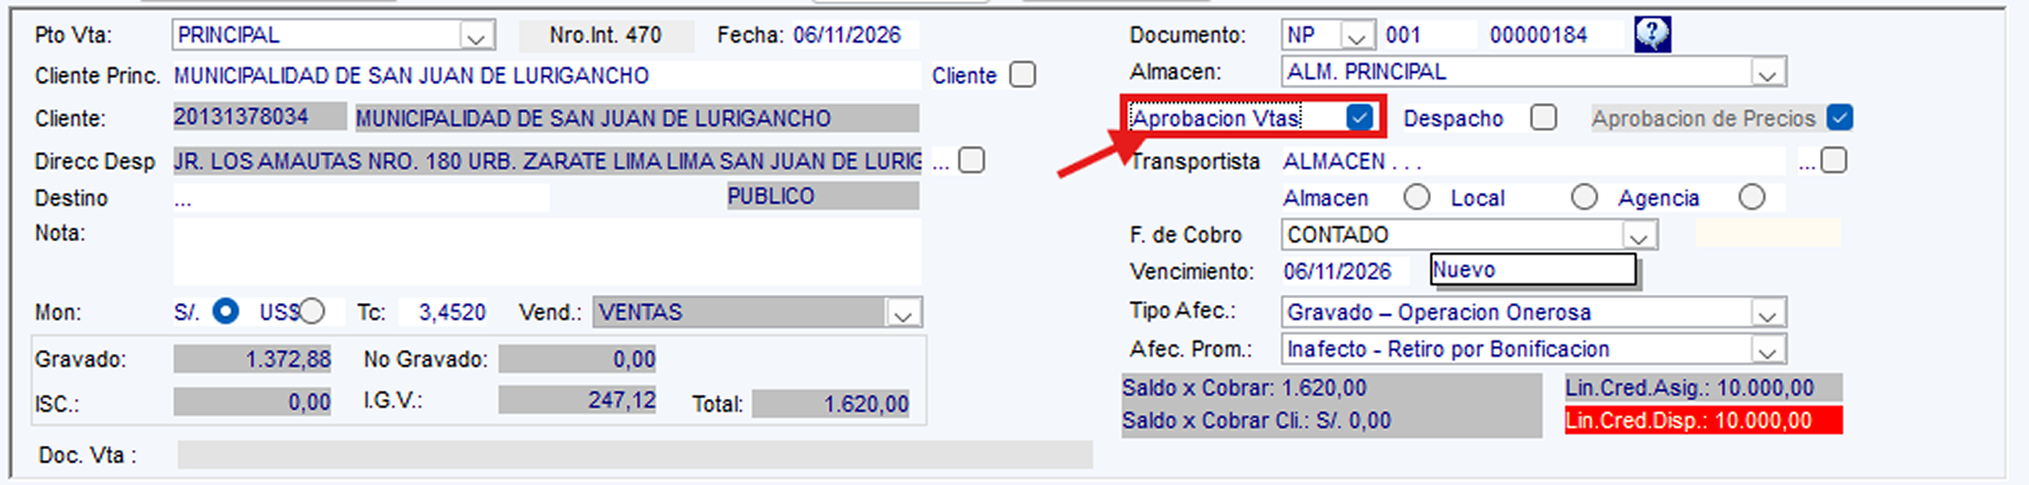
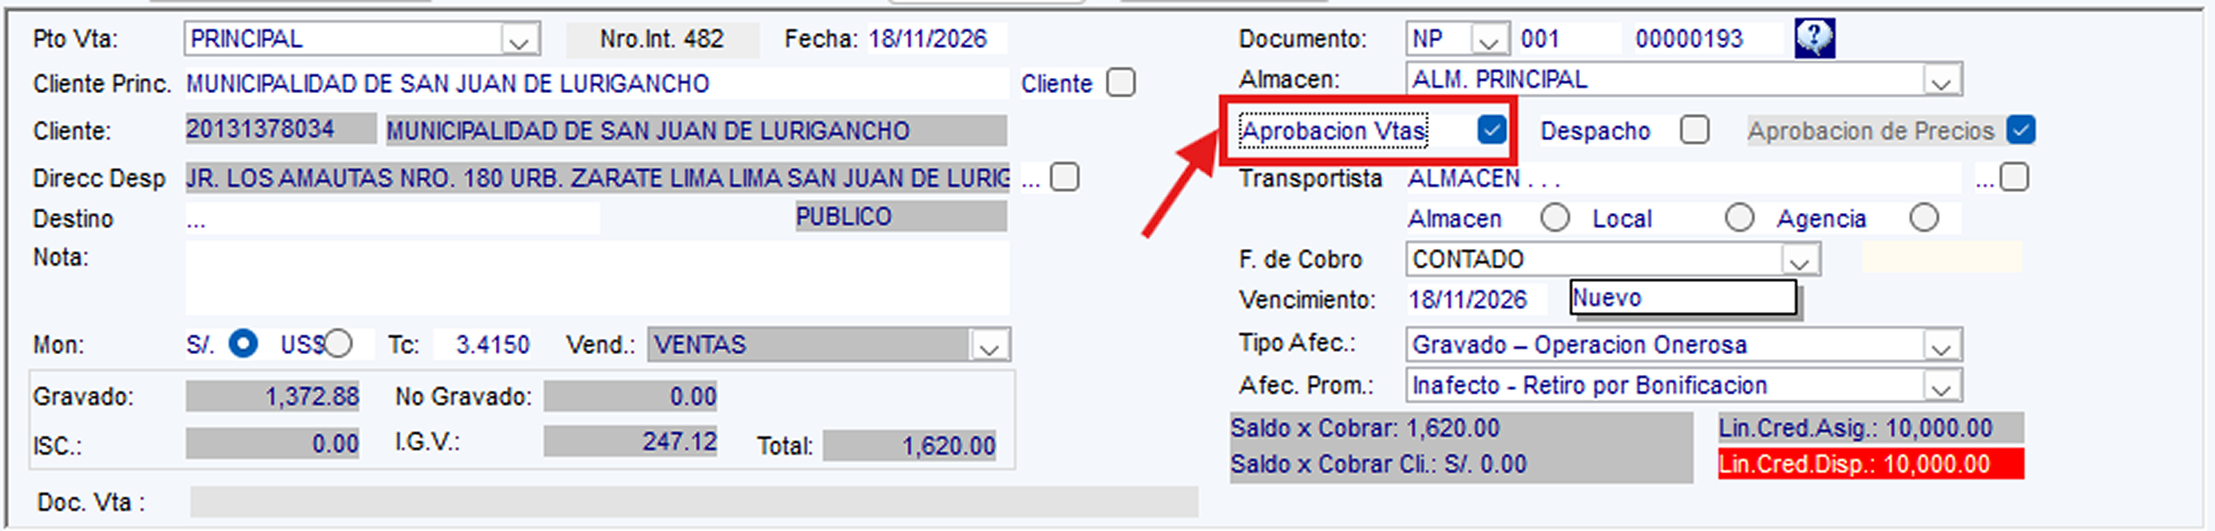
Se actualizo el 8.1.1 y 8.1.2

diff --git a/GENERALIDADES/8.1.1_Estados_Ciclo_de_vida.html b/GENERALIDADES/8.1.1_Estados_Ciclo_de_vida.html
@@ -490,11 +490,14 @@
               <p>
                 Al formular una Nota de Pedido por primera vez, selecciona el cliente y añade los artículos requeridos. Al pulsar la <strong>Opción Grabar</strong> sin marcar casillas de aprobación, el pedido se guarda en estado inicial.
               </p>
+              <div class="img-placeholder">
+                <img src="../Imagenes/Modulo_Ventas/8.1.1_estados/image 1261.png" alt="Estado Nuevo de la Nota de Pedido en búsqueda de documentos" style="width: 100%; max-width: 650px; height: auto; display: block; margin: 0 auto; border-radius: 6px; border: 1px solid #E2E8F0;">
+              </div>
               <p>
                 Para comprobarlo, pulsa el botón de ayuda <strong>[?]</strong> junto al correlativo; verás el pedido registrado con el estado <strong>NUEVO,</strong> cabe recalcar que solo se esta grabando una NP mas no se está comprometiendo ningún artículo ya que no esta aprobado por ventas, eso lo veremos mas adelante.
               </p>
               <div class="img-placeholder">
-                <img src="../Imagenes/Modulo_Ventas/8.1.1_estados/image 1122.png" alt="Estado Nuevo de la Nota de Pedido en búsqueda de documentos" style="width: 100%; max-width: 650px; height: auto; display: block; margin: 0 auto; border-radius: 6px; border: 1px solid #E2E8F0;">
+                <img src="../Imagenes/Modulo_Ventas/8.1.1_estados/image 1262.png" alt="Estado Nuevo de la Nota de Pedido en búsqueda de documentos" style="width: 100%; max-width: 650px; height: auto; display: block; margin: 0 auto; border-radius: 6px; border: 1px solid #E2E8F0;">
               </div>
             </div>
 
@@ -508,19 +511,19 @@
                 Pulsa el botón de ayuda <strong>[?]</strong>, ubica el documento en la lista y selecciónalo para editar:
               </p>
               <div class="img-placeholder">
-                <img src="../Imagenes/Modulo_Ventas/8.1.1_estados/image 1123.png" alt="Selección de NP para edición en la lista de búsqueda" style="width: 100%; max-width: 650px; height: auto; display: block; margin: 0 auto; border-radius: 6px; border: 1px solid #E2E8F0;">
+                <img src="../Imagenes/Modulo_Ventas/8.1.1_estados/image 1263.png" alt="Selección de NP para edición en la lista de búsqueda" style="width: 100%; max-width: 650px; height: auto; display: block; margin: 0 auto; border-radius: 6px; border: 1px solid #E2E8F0;">
               </div>
               <p>
                 Haz doble clic sobre el documento para abrirlo en pantalla; aquí podrás agregar artículos, cambiar de asesor comercial, etc. Una vez realizadas las modificaciones, pulsa la <strong>Opción Grabar</strong>:
               </p>
               <div class="img-placeholder">
-                <img src="../Imagenes/Modulo_Ventas/8.1.1_estados/image 1124.png" alt="Edición de repuestos y asignación de asesor comercial en el formulario" style="width: 100%; max-width: 650px; height: auto; display: block; margin: 0 auto; border-radius: 6px; border: 1px solid #E2E8F0;">
+                <img src="../Imagenes/Modulo_Ventas/8.1.1_estados/image 1264.png" alt="Edición de repuestos y asignación de asesor comercial en el formulario" style="width: 100%; max-width: 650px; height: auto; display: block; margin: 0 auto; border-radius: 6px; border: 1px solid #E2E8F0;">
               </div>
               <p>
                 Al volver a buscar el documento con el botón de ayuda <strong>[?]</strong>, verás que su estado cambió formalmente a <strong>Modificado</strong>:
               </p>
               <div class="img-placeholder">
-                <img src="../Imagenes/Modulo_Ventas/8.1.1_estados/image 1125 (3).png" alt="Estado Modificado visualizado en la grilla de búsqueda" style="width: 100%; max-width: 650px; height: auto; display: block; margin: 0 auto; border-radius: 6px; border: 1px solid #E2E8F0;">
+                <img src="../Imagenes/Modulo_Ventas/8.1.1_estados/image 1265.png" alt="Estado Modificado visualizado en la grilla de búsqueda" style="width: 100%; max-width: 650px; height: auto; display: block; margin: 0 auto; border-radius: 6px; border: 1px solid #E2E8F0;">
               </div>
             </div>
 
@@ -536,7 +539,7 @@
 
                 <!-- IMAGEN 1: MENÚ EVENTOS > 1. ABRIR PEDIDO Y DIÁLOGO DE CONFIRMACIÓN -->
                 <div class="img-placeholder">
-                  <img src="../Imagenes/Modulo_Ventas/8.1.1_estados/image 1125 (4).png" alt="Opción 1. Abrir Pedido en el menú Eventos y mensaje de confirmación del sistema" style="width: 100%; max-width: 650px; height: auto; display: block; margin: 0 auto; border-radius: 6px; border: 1px solid #E2E8F0;">
+                  <img src="../Imagenes/Modulo_Ventas/8.1.1_estados/image 1269.png" alt="Opción 1. Abrir Pedido en el menú Eventos y mensaje de confirmación del sistema" style="width: 100%; max-width: 650px; height: auto; display: block; margin: 0 auto; border-radius: 6px; border: 1px solid #E2E8F0;">
                 </div>
 
                 <p>
@@ -548,7 +551,7 @@
 
                 <!-- IMAGEN 2: VERIFICACIÓN DEL ESTADO ABIER EN LA BÚSQUEDA DE DOCUMENTOS -->
                 <div class="img-placeholder">
-                  <img src="../Imagenes/Modulo_Ventas/8.1.1_estados/image 1126 (2).png" alt="Comprobación del estado Abier en la ventana de búsqueda de documentos mediante el botón ayuda" style="width: 100%; max-width: 650px; height: auto; display: block; margin: 0 auto; border-radius: 6px; border: 1px solid #E2E8F0;">
+                  <img src="../Imagenes/Modulo_Ventas/8.1.1_estados/image 1270.png" alt="Comprobación del estado Abier en la ventana de búsqueda de documentos mediante el botón ayuda" style="width: 100%; max-width: 650px; height: auto; display: block; margin: 0 auto; border-radius: 6px; border: 1px solid #E2E8F0;">
                 </div>
 
                 <p>
@@ -557,7 +560,7 @@
 
                 <!-- IMAGEN 3: GRILLA CON REPUESTOS RETIRADOS Y ACCIÓN GRABAR -->
                 <div class="img-placeholder">
-                  <img src="../Imagenes/Modulo_Ventas/8.1.1_estados/image 1126 (3).png" alt="Nota de Pedido con repuestos actualizados lista para presionar la opción Grabar" style="width: 100%; max-width: 650px; height: auto; display: block; margin: 0 auto; border-radius: 6px; border: 1px solid #E2E8F0;">
+                  <img src="../Imagenes/Modulo_Ventas/8.1.1_estados/image 1271.png" alt="Nota de Pedido con repuestos actualizados lista para presionar la opción Grabar" style="width: 100%; max-width: 650px; height: auto; display: block; margin: 0 auto; border-radius: 6px; border: 1px solid #E2E8F0;">
                 </div>
 
                 <p>
@@ -566,16 +569,7 @@
 
                 <!-- IMAGEN 4: PEDIDO ACTUALIZADO AL ESTADO MODIF EN LA BÚSQUEDA -->
                 <div class="img-placeholder">
-                  <img src="../Imagenes/Modulo_Ventas/8.1.1_estados/image 1126 (4).png" alt="Confirmación del retorno al estado Modif en la lista de documentos" style="width: 100%; max-width: 650px; height: auto; display: block; margin: 0 auto; border-radius: 6px; border: 1px solid #E2E8F0;">
-                </div>
-
-                <p>
-                  Por último, al hacer clic en la <strong>Opción Histórico</strong> en la barra inferior, se abrirá la ventana de trazabilidad donde podrás auditar todo el historial y observar la secuencia exacta de estados por los que transitó la Nota de Pedido (incluyendo el registro del evento <strong>ABRIR</strong> con su fecha, hora y usuario responsable).
-                </p>
-
-                <!-- IMAGEN 5: VENTANA DE HISTÓRICO CON EL REGISTRO DE APERTURA -->
-                <div class="img-placeholder">
-                  <img src="../Imagenes/Modulo_Ventas/8.1.1_estados/image 1126 (6).png" alt="Ventana de Histórico mostrando la trazabilidad cronológica y el evento ABRIR registrado" style="width: 100%; max-width: 650px; height: auto; display: block; margin: 0 auto; border-radius: 6px; border: 1px solid #E2E8F0;">
+                  <img src="../Imagenes/Modulo_Ventas/8.1.1_estados/image 1272.png" alt="Confirmación del retorno al estado Modif en la lista de documentos" style="width: 100%; max-width: 650px; height: auto; display: block; margin: 0 auto; border-radius: 6px; border: 1px solid #E2E8F0;">
                 </div>
               </div>
 
@@ -586,19 +580,19 @@
                 Este paso es fundamental: al marcar la casilla <strong>Aprobación Vtas.</strong> en la cabecera y pulsar la <strong>Opción Grabar</strong>, los artículos quedan formalmente comprometidos en almacén. Nadie más podrá vender esas unidades.
               </p>
               <div class="img-placeholder">
-                <img src="../Imagenes/Modulo_Ventas/8.1.1_estados/image 1126.png" alt="Marcado de la casilla Aprobación Vtas en la cabecera de la Nota de Pedido" style="width: 100%; max-width: 650px; height: auto; display: block; margin: 0 auto; border-radius: 6px; border: 1px solid #E2E8F0;">
+                <img src="../Imagenes/Modulo_Ventas/8.1.1_estados/image 1266.png" alt="Marcado de la casilla Aprobación Vtas en la cabecera de la Nota de Pedido" style="width: 100%; max-width: 650px; height: auto; display: block; margin: 0 auto; border-radius: 6px; border: 1px solid #E2E8F0;">
               </div>
               <p>
                 Una vez grabado, el documento pasará formalmente al estado <strong>Aprobado Ventas</strong> (mostrado como <code>Apr.Vta</code>):
               </p>
               <div class="img-placeholder">
-                <img src="../Imagenes/Modulo_Ventas/8.1.1_estados/image 1127.png" alt="Validación del estado Apr.Vta en la grilla de búsqueda de documentos" style="width: 100%; max-width: 650px; height: auto; display: block; margin: 0 auto; border-radius: 6px; border: 1px solid #E2E8F0;">
+                <img src="../Imagenes/Modulo_Ventas/8.1.1_estados/image 1267.png" alt="Validación del estado Apr.Vta en la grilla de búsqueda de documentos" style="width: 100%; max-width: 650px; height: auto; display: block; margin: 0 auto; border-radius: 6px; border: 1px solid #E2E8F0;">
               </div>
               <p>
                 Cuando el pedido está aprobado por ventas, los campos de precio y cantidad quedan bloqueados por seguridad. Se habilitan los pasos siguientes como Despacho o Cobranzas, y el botón <strong>Histórico</strong> muestra el registro del visto bueno comercial:
               </p>
               <div class="img-placeholder">
-                <img src="../Imagenes/Modulo_Ventas/8.1.1_estados/image 1128.png" alt="Histórico de auditoría reflejando el visto bueno de Aprobación por Ventas" style="width: 100%; max-width: 650px; height: auto; display: block; margin: 0 auto; border-radius: 6px; border: 1px solid #E2E8F0;">
+                <img src="../Imagenes/Modulo_Ventas/8.1.1_estados/image 1268.png" alt="Histórico de auditoría reflejando el visto bueno de Aprobación por Ventas" style="width: 100%; max-width: 650px; height: auto; display: block; margin: 0 auto; border-radius: 6px; border: 1px solid #E2E8F0;">
               </div>
             </div>
 
@@ -614,7 +608,7 @@
 
                 <!-- IMAGEN 1: SELECCIÓN DE 3. LIQUIDAR PEDIDO EN EL MENÚ EVENTOS -->
                 <div class="img-placeholder">
-                  <img src="../Imagenes/Modulo_Ventas/8.1.1_estados/image 1134.png" alt="Acceso a la opción 3. Liquidar Pedido desde el menú desplegable Eventos" style="width: 100%; max-width: 650px; height: auto; display: block; margin: 0 auto; border-radius: 6px; border: 1px solid #E2E8F0;">
+                  <img src="../Imagenes/Modulo_Ventas/8.1.1_estados/image 1273.png" alt="Acceso a la opción 3. Liquidar Pedido desde el menú desplegable Eventos" style="width: 100%; max-width: 650px; height: auto; display: block; margin: 0 auto; border-radius: 6px; border: 1px solid #E2E8F0;">
                 </div>
 
                 <p>
@@ -623,7 +617,7 @@
 
                 <!-- IMAGEN 2: VENTANA LIQUIDACIÓN DE NOTA DE PEDIDO CON PARTIDAS MARCADAS Y BOTÓN GRABAR -->
                 <div class="img-placeholder">
-                  <img src="../Imagenes/Modulo_Ventas/8.1.1_estados/image 1135.png" alt="Ventana Liquidación de Nota de Pedido con repuestos seleccionados en la columna Liquidar" style="width: 100%; max-width: 650px; height: auto; display: block; margin: 0 auto; border-radius: 6px; border: 1px solid #E2E8F0;">
+                  <img src="../Imagenes/Modulo_Ventas/8.1.1_estados/image 1274.png" alt="Ventana Liquidación de Nota de Pedido con repuestos seleccionados en la columna Liquidar" style="width: 100%; max-width: 650px; height: auto; display: block; margin: 0 auto; border-radius: 6px; border: 1px solid #E2E8F0;">
                 </div>
 
                 <p>
@@ -632,7 +626,7 @@
 
                 <!-- IMAGEN 3: MENSAJE DEL SISTEMA CONFIRMANDO LA LIQUIDACIÓN CORRECTA -->
                 <div class="img-placeholder">
-                  <img src="../Imagenes/Modulo_Ventas/8.1.1_estados/image 1136.png" alt="Mensaje del sistema confirmando que el documento se liquidó de forma correcta" style="width: 100%; max-width: 650px; height: auto; display: block; margin: 0 auto; border-radius: 6px; border: 1px solid #E2E8F0;">
+                  <img src="../Imagenes/Modulo_Ventas/8.1.1_estados/image 1275.png" alt="Mensaje del sistema confirmando que el documento se liquidó de forma correcta" style="width: 100%; max-width: 650px; height: auto; display: block; margin: 0 auto; border-radius: 6px; border: 1px solid #E2E8F0;">
                 </div>
 
                 <p>
@@ -641,7 +635,7 @@
 
                 <!-- IMAGEN 4: BÚSQUEDA DE DOCUMENTOS CON EL ESTADO CAMBIADO A LIQU.PARC -->
                 <div class="img-placeholder">
-                  <img src="../Imagenes/Modulo_Ventas/8.1.1_estados/image 1137.png" alt="Consulta de documentos mostrando el estado actualizado a Liqu.Parc" style="width: 100%; max-width: 650px; height: auto; display: block; margin: 0 auto; border-radius: 6px; border: 1px solid #E2E8F0;">
+                  <img src="../Imagenes/Modulo_Ventas/8.1.1_estados/image 1276.png" alt="Consulta de documentos mostrando el estado actualizado a Liqu.Parc" style="width: 100%; max-width: 650px; height: auto; display: block; margin: 0 auto; border-radius: 6px; border: 1px solid #E2E8F0;">
                 </div>
 
                 <p>
@@ -650,7 +644,7 @@
 
                 <!-- IMAGEN 5: VENTANA DE HISTÓRICO REFLEJANDO EL MOVIMIENTO DE LIQUIDACIÓN Y LAS CANTIDADES LIBERADAS -->
                 <div class="img-placeholder">
-                  <img src="../Imagenes/Modulo_Ventas/8.1.1_estados/image 1138.png" alt="Histórico de la Nota de Pedido evidenciando el registro de Liquidación y el retorno de stock" style="width: 100%; max-width: 650px; height: auto; display: block; margin: 0 auto; border-radius: 6px; border: 1px solid #E2E8F0;">
+                  <img src="../Imagenes/Modulo_Ventas/8.1.1_estados/image 1277.png" alt="Histórico de la Nota de Pedido evidenciando el registro de Liquidación y el retorno de stock" style="width: 100%; max-width: 650px; height: auto; display: block; margin: 0 auto; border-radius: 6px; border: 1px solid #E2E8F0;">
                 </div>
               </div>
 
@@ -661,31 +655,31 @@
                 Aplica cuando el cliente decide no comprar ningún artículos de la orden. En lugar de borrar el pedido, se liquida totalmente para liberar el 100% del stock retenido y devolverlo al inventario general.
               </p>
               <div class="img-placeholder">
-                <img src="../Imagenes/Modulo_Ventas/8.1.1_estados/image 1139.png" alt="Nota de Pedido con aprobación de ventas lista para liquidar" style="width: 100%; max-width: 650px; height: auto; display: block; margin: 0 auto; border-radius: 6px; border: 1px solid #E2E8F0;">
+                <img src="../Imagenes/Modulo_Ventas/8.1.1_estados/image 1278.png" alt="Nota de Pedido con aprobación de ventas lista para liquidar" style="width: 100%; max-width: 650px; height: auto; display: block; margin: 0 auto; border-radius: 6px; border: 1px solid #E2E8F0;">
               </div>
               <p>
                 Entra a <strong>Eventos &gt; Liquidar Pedido</strong> y en la parte inferior pulsa el botón <strong>Liquidar</strong> para marcar automáticamente todos los artículos a la vez:
               </p>
               <div class="img-placeholder">
-                <img src="../Imagenes/Modulo_Ventas/8.1.1_estados/image 1140.png" alt="Botón Liquidar en grilla marcando todos los repuestos a la vez" style="width: 100%; max-width: 650px; height: auto; display: block; margin: 0 auto; border-radius: 6px; border: 1px solid #E2E8F0;">
+                <img src="../Imagenes/Modulo_Ventas/8.1.1_estados/image 1279.png" alt="Botón Liquidar en grilla marcando todos los repuestos a la vez" style="width: 100%; max-width: 650px; height: auto; display: block; margin: 0 auto; border-radius: 6px; border: 1px solid #E2E8F0;">
               </div>
               <p>
                 Verifica que todas las filas queden seleccionadas y pulsa la <strong>Opción Grabar</strong>:
               </p>
               <div class="img-placeholder">
-                <img src="../Imagenes/Modulo_Ventas/8.1.1_estados/image 1141.png" alt="Todas las líneas de repuestos seleccionadas para liquidación total" style="width: 100%; max-width: 650px; height: auto; display: block; margin: 0 auto; border-radius: 6px; border: 1px solid #E2E8F0;">
+                <img src="../Imagenes/Modulo_Ventas/8.1.1_estados/image 1280.png" alt="Todas las líneas de repuestos seleccionadas para liquidación total" style="width: 100%; max-width: 650px; height: auto; display: block; margin: 0 auto; border-radius: 6px; border: 1px solid #E2E8F0;">
               </div>
               <p>
                 El sistema te pedirá confirmación; haz clic en <strong>Aceptar</strong>:
               </p>
               <div class="img-placeholder">
-                <img src="../Imagenes/Modulo_Ventas/8.1.1_estados/image 1142.png" alt="Cuadro de diálogo de confirmación para procesar la Liquidación Total" style="width: auto; max-width: 650px; height: auto; display: block; margin: 0 auto; border-radius: 6px; border: 1px solid #E2E8F0;">
+                <img src="../Imagenes/Modulo_Ventas/8.1.1_estados/image 1281.png" alt="Cuadro de diálogo de confirmación para procesar la Liquidación Total" style="width: auto; max-width: 650px; height: auto; display: block; margin: 0 auto; border-radius: 6px; border: 1px solid #E2E8F0;">
               </div>
               <p>
                 Al revisar el <strong>Histórico</strong>, se confirmará la <strong>Liquidación Total</strong> y todas las unidades habrán retornado de inmediato al almacén:
               </p>
               <div class="img-placeholder">
-                <img src="../Imagenes/Modulo_Ventas/8.1.1_estados/image 1143.png" alt="Histórico validando la Liquidación Total y descompromiso de stock" style="width: 100%; max-width: 650px; height: auto; display: block; margin: 0 auto; border-radius: 6px; border: 1px solid #E2E8F0;">
+                <img src="../Imagenes/Modulo_Ventas/8.1.1_estados/image 1282.png" alt="Histórico validando la Liquidación Total y descompromiso de stock" style="width: 100%; max-width: 650px; height: auto; display: block; margin: 0 auto; border-radius: 6px; border: 1px solid #E2E8F0;">
               </div>
             </div>
 
@@ -703,7 +697,7 @@
 
                 <!-- IMAGEN 1: MARCADO DE CASILLA DESPACHO EN CABECERA DE LA NP -->
                 <div class="img-placeholder">
-                  <img src="../Imagenes/Modulo_Ventas/8.1.1_estados/image 1144.png" alt="Aprobación directa desde la cabecera marcando la opción Despacho" style="width: 100%; max-width: 650px; height: auto; display: block; margin: 0 auto; border-radius: 6px; border: 1px solid #E2E8F0;">
+                  <img src="../Imagenes/Modulo_Ventas/8.1.1_estados/image 1283.png" alt="Aprobación directa desde la cabecera marcando la opción Despacho" style="width: 100%; max-width: 650px; height: auto; display: block; margin: 0 auto; border-radius: 6px; border: 1px solid #E2E8F0;">
                 </div>
 
                 <h4 style="margin-top: 20px; color: #1e293b; font-size: 1rem;">2. Desde la ventana Facturación de NP - Administración</h4>
@@ -716,7 +710,7 @@
 
                 <!-- IMAGEN 2: RUTA DE ACCESO EN EL MENÚ A FACTURACIÓN DE NP ADMINISTRACIÓN -->
                 <div class="img-placeholder">
-                  <img src="../Imagenes/Modulo_Ventas/8.1.1_estados/image 1145.png" alt="Ruta en el menú principal hacia Facturación de NP - Administración" style="width: 100%; max-width: 650px; height: auto; display: block; margin: 0 auto; border-radius: 6px; border: 1px solid #E2E8F0;">
+                  <img src="../Imagenes/Modulo_Ventas/8.1.1_estados/image 1284.png" alt="Ruta en el menú principal hacia Facturación de NP - Administración" style="width: 70%; max-width: 650px; height: auto; display: block; margin: 0 auto; border-radius: 6px; border: 1px solid #E2E8F0;">
                 </div>
 
                 <p>
@@ -725,7 +719,7 @@
 
                 <!-- IMAGEN 3: BANDEJA ADMINISTRATIVA Y BOTÓN APROBAR EN LA COLUMNA MODIF. DESPACHO -->
                 <div class="img-placeholder">
-                  <img src="../Imagenes/Modulo_Ventas/8.1.1_estados/image 1146.png" alt="Búsqueda de la orden y clic en el botón Aprobar en la columna Modif. Despacho" style="width: 100%; max-width: 650px; height: auto; display: block; margin: 0 auto; border-radius: 6px; border: 1px solid #E2E8F0;">
+                  <img src="../Imagenes/Modulo_Ventas/8.1.1_estados/image 1285.png" alt="Búsqueda de la orden y clic en el botón Aprobar en la columna Modif. Despacho" style="width: 100%; max-width: 650px; height: auto; display: block; margin: 0 auto; border-radius: 6px; border: 1px solid #E2E8F0;">
                 </div>
 
                 <p>
@@ -734,7 +728,7 @@
 
                 <!-- IMAGEN 4: NOTA DE PEDIDO CON LA CASILLA DESPACHO MARCADA AUTOMÁTICAMENTE -->
                 <div class="img-placeholder">
-                  <img src="../Imagenes/Modulo_Ventas/8.1.1_estados/image 1147.png" alt="Comprobación en la Nota de Pedido con la casilla Despacho activada tras la visación" style="width: 100%; max-width: 650px; height: auto; display: block; margin: 0 auto; border-radius: 6px; border: 1px solid #E2E8F0;">
+                  <img src="../Imagenes/Modulo_Ventas/8.1.1_estados/image 1286.png" alt="Comprobación en la Nota de Pedido con la casilla Despacho activada tras la visación" style="width: 100%; max-width: 650px; height: auto; display: block; margin: 0 auto; border-radius: 6px; border: 1px solid #E2E8F0;">
                 </div>
               </div>
 

diff --git a/GENERALIDADES/8.1.0_Nota_Pedido.html b/GENERALIDADES/8.1.0_Nota_Pedido.html
@@ -912,12 +912,15 @@
                 </div>
 
                 <p style="margin: 0; font-size: 0.95rem;">
-                  Al seleccionar un artículo el sistema nos muestra la ventana de captura transaccional:
+                  Al seleccionar un artículo, DSI-NET ERP despliega la ventana transaccional <strong>Articulo</strong>, donde se visualizan y habilitan los siguientes controles clave:
                 </p>
                 <ul style="margin: 8px 0 0 20px; line-height: 1.6; font-size: 0.95rem;">
-                  <li>Aquí ingresaremos la cantidad a seleccionar para nuestra Nota de Pedido.</li>
-                  <li>También podemos ingresar un % de descuento o quizás marcar al artículo como promoción <strong>Costo 0</strong>.</li>
-                  <li>Según los permisos de los usuarios en DSI-NET ERP podremos mostrar el Costo del artículo así como la utilidad comercial.</li>
+                  <li><strong>Campo Cant:</strong> Permite ingresar la cantidad de unidades que se van a solicitar para la Nota de Pedido.</li>
+                  <li><strong>Campo % Dscto:</strong> Habilita la opción de ingresar un porcentaje de descuento comercial.</li>
+                  <li><strong>Casilla Promoción ?:</strong> Permite marcar al artículo como entrega gratuita, señalándolo como regalo (Costo 0).</li>
+                  <li><strong>Indicadores Costo con IGV y Utilidad:</strong> Según los permisos asignados al usuario en DSI-NET ERP, la parte inferior de la ventana exhibirá el costo de adquisición del artículo y el margen de utilidad comercial (en valor numérico y porcentaje).</li>
+                  <li><strong>Almacen:</strong> Muestra el almacén donde se encuentra el artículo seleccionado para la Nota de Pedido.</li>
+                  <li><strong>Cat. Precio:</strong> Desplegable que permite elegir entre las categorías de precio disponibles para el artículo (ej. PUBLICO, AL POR MAYOR).</li>
                 </ul>
               </div>
 
@@ -1180,7 +1183,7 @@
             <div class="doc-subblock" style="margin-top: 20px;">
               <h5 style="color: #1e293b; font-size: 1.05rem; margin-bottom: 6px;">Flujo para pasar a Estado Aprobado por Ventas</h5>
               <p>
-                Usaremos como ejemplo la NP creada anteriormente (NP-001-00000184).
+                Usaremos como ejemplo la NP creada anteriormente (NP-001-00000193).
               </p>
               <p>
                 Para que la Nota de Pedido pase a estado <strong>Aprobado por ventas</strong>, se debe marcar la casilla <strong>Aprobación Vtas.</strong> en la cabecera y posteriormente hacer clic en la <strong>Opción Grabar</strong> en la botonera inferior.

diff --git a/GENERALIDADES/8.1.2_NP_Pendientes_Regularizar.html b/GENERALIDADES/8.1.2_NP_Pendientes_Regularizar.html
@@ -404,7 +404,7 @@
 
           <div class="img-placeholder">
             <img 
-              src="../Imagenes/Modulo_Ventas/8.1.2_np_por_regularizar/image 1116.png" 
+              src="../Imagenes/Modulo_Ventas/8.1.2_np_por_regularizar/image 1288.png" 
               alt="Pantalla principal de Notas de Pedido Pendientes de Regularizar en DSI-NET ERP" 
               style="width: 100%; max-width: 650px; height: auto; display: block; margin: 0 auto; border-radius: 6px; border: 1px solid #E2E8F0;"
             >
@@ -539,7 +539,7 @@
 
             <div class="img-placeholder">
               <img 
-                src="../Imagenes/Modulo_Ventas/8.1.2_np_por_regularizar/image 1117.png" 
+                src="../Imagenes/Modulo_Ventas/8.1.2_np_por_regularizar/image 1292.png" 
                 alt="Ruta en Menú Reportes > NP Pendientes de Regularizar en DSI-NET ERP" 
                 style="width: 40%; max-width: 650px; height: auto; display: block; margin: 0 auto; border-radius: 6px; border: 1px solid #E2E8F0;"
               >
@@ -558,7 +558,7 @@
 
             <div class="img-placeholder">
               <img 
-                src="../Imagenes/Modulo_Ventas/8.1.2_np_por_regularizar/image 1118.png" 
+                src="../Imagenes/Modulo_Ventas/8.1.2_np_por_regularizar/image 1289.png" 
                 alt="Notas de Pedido Pendientes de Regularizar agrupadas por cliente" 
                 style="width: 100%; max-width: 650px; height: auto; display: block; margin: 0 auto; border-radius: 6px; border: 1px solid #E2E8F0;"
               >
@@ -574,7 +574,7 @@
 
             <div class="img-placeholder">
               <img 
-                src="../Imagenes/Modulo_Ventas/8.1.2_np_por_regularizar/image 1119.png" 
+                src="../Imagenes/Modulo_Ventas/8.1.2_np_por_regularizar/image 1290.png" 
                 alt="Notas de Pedido Pendientes de Regularizar agrupadas por repuesto" 
                 style="width: 100%; max-width: 650px; height: auto; display: block; margin: 0 auto; border-radius: 6px; border: 1px solid #E2E8F0;"
               >
@@ -590,7 +590,7 @@
 
             <div class="img-placeholder">
               <img 
-                src="../Imagenes/Modulo_Ventas/8.1.2_np_por_regularizar/image 1120.png" 
+                src="../Imagenes/Modulo_Ventas/8.1.2_np_por_regularizar/image 1291.png" 
                 alt="Detalle completo de la Nota de Pedido pendiente" 
                 style="width: 100%; max-width: 650px; height: auto; display: block; margin: 0 auto; border-radius: 6px; border: 1px solid #E2E8F0;"
               >
